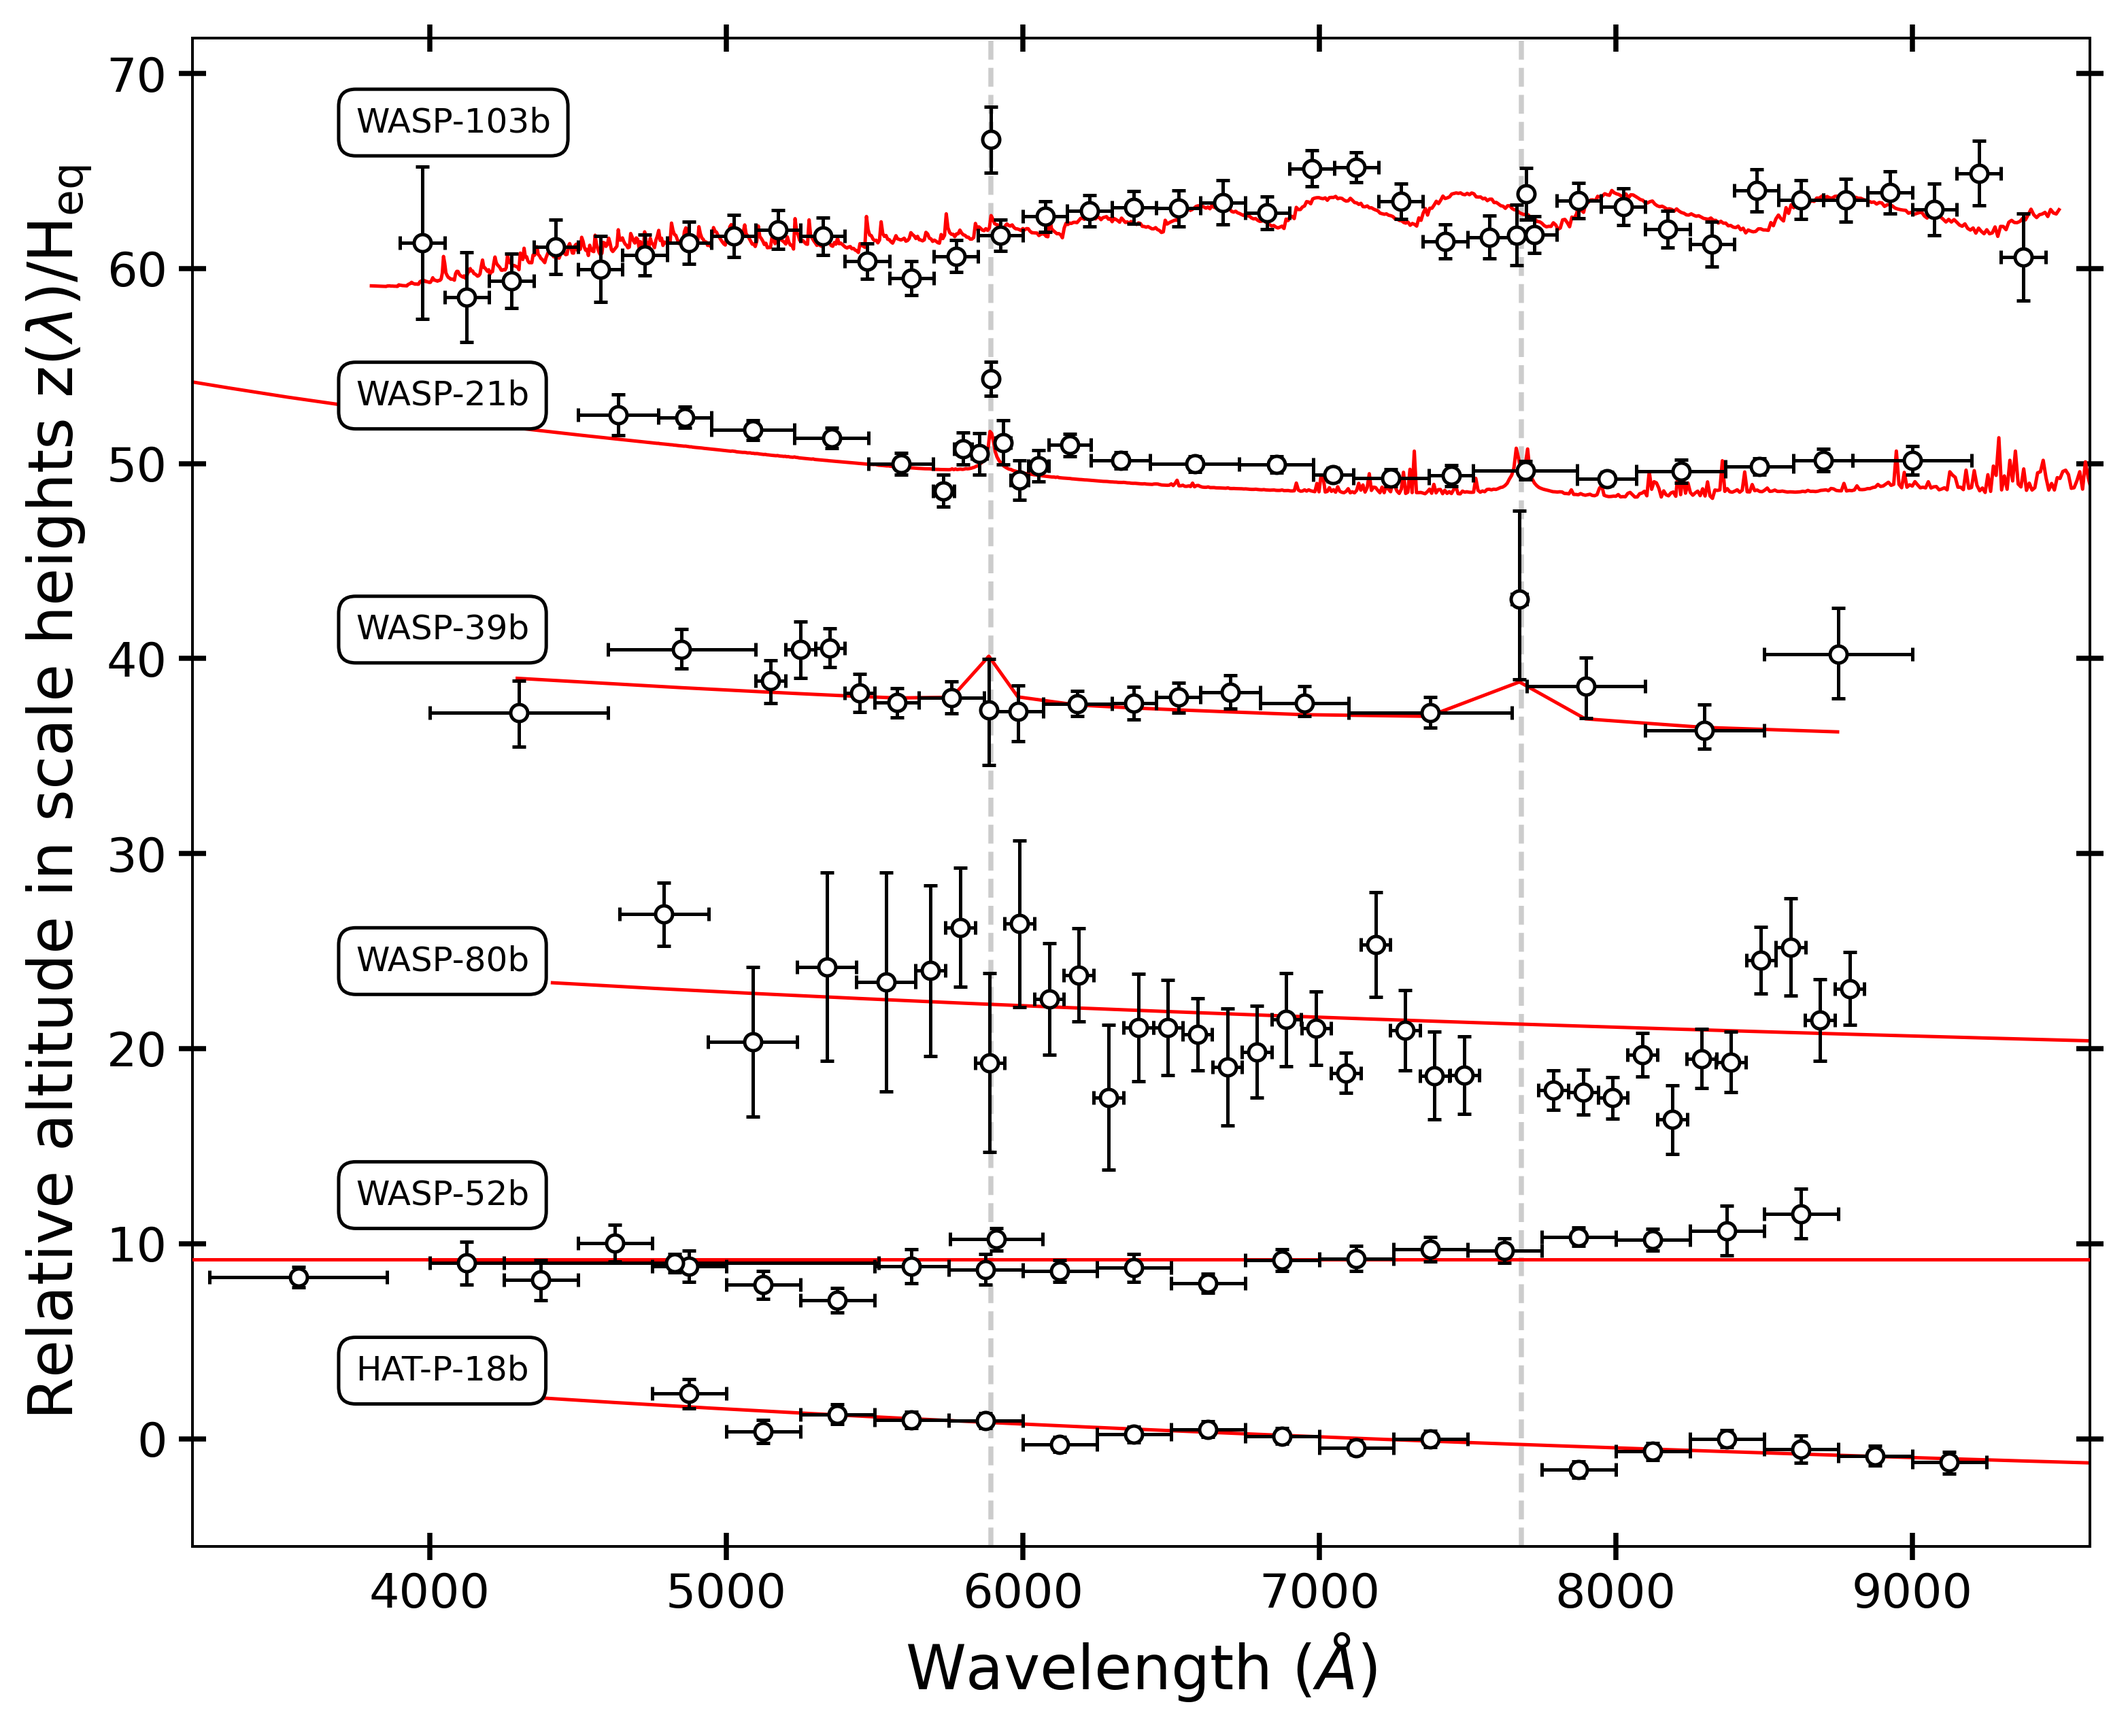
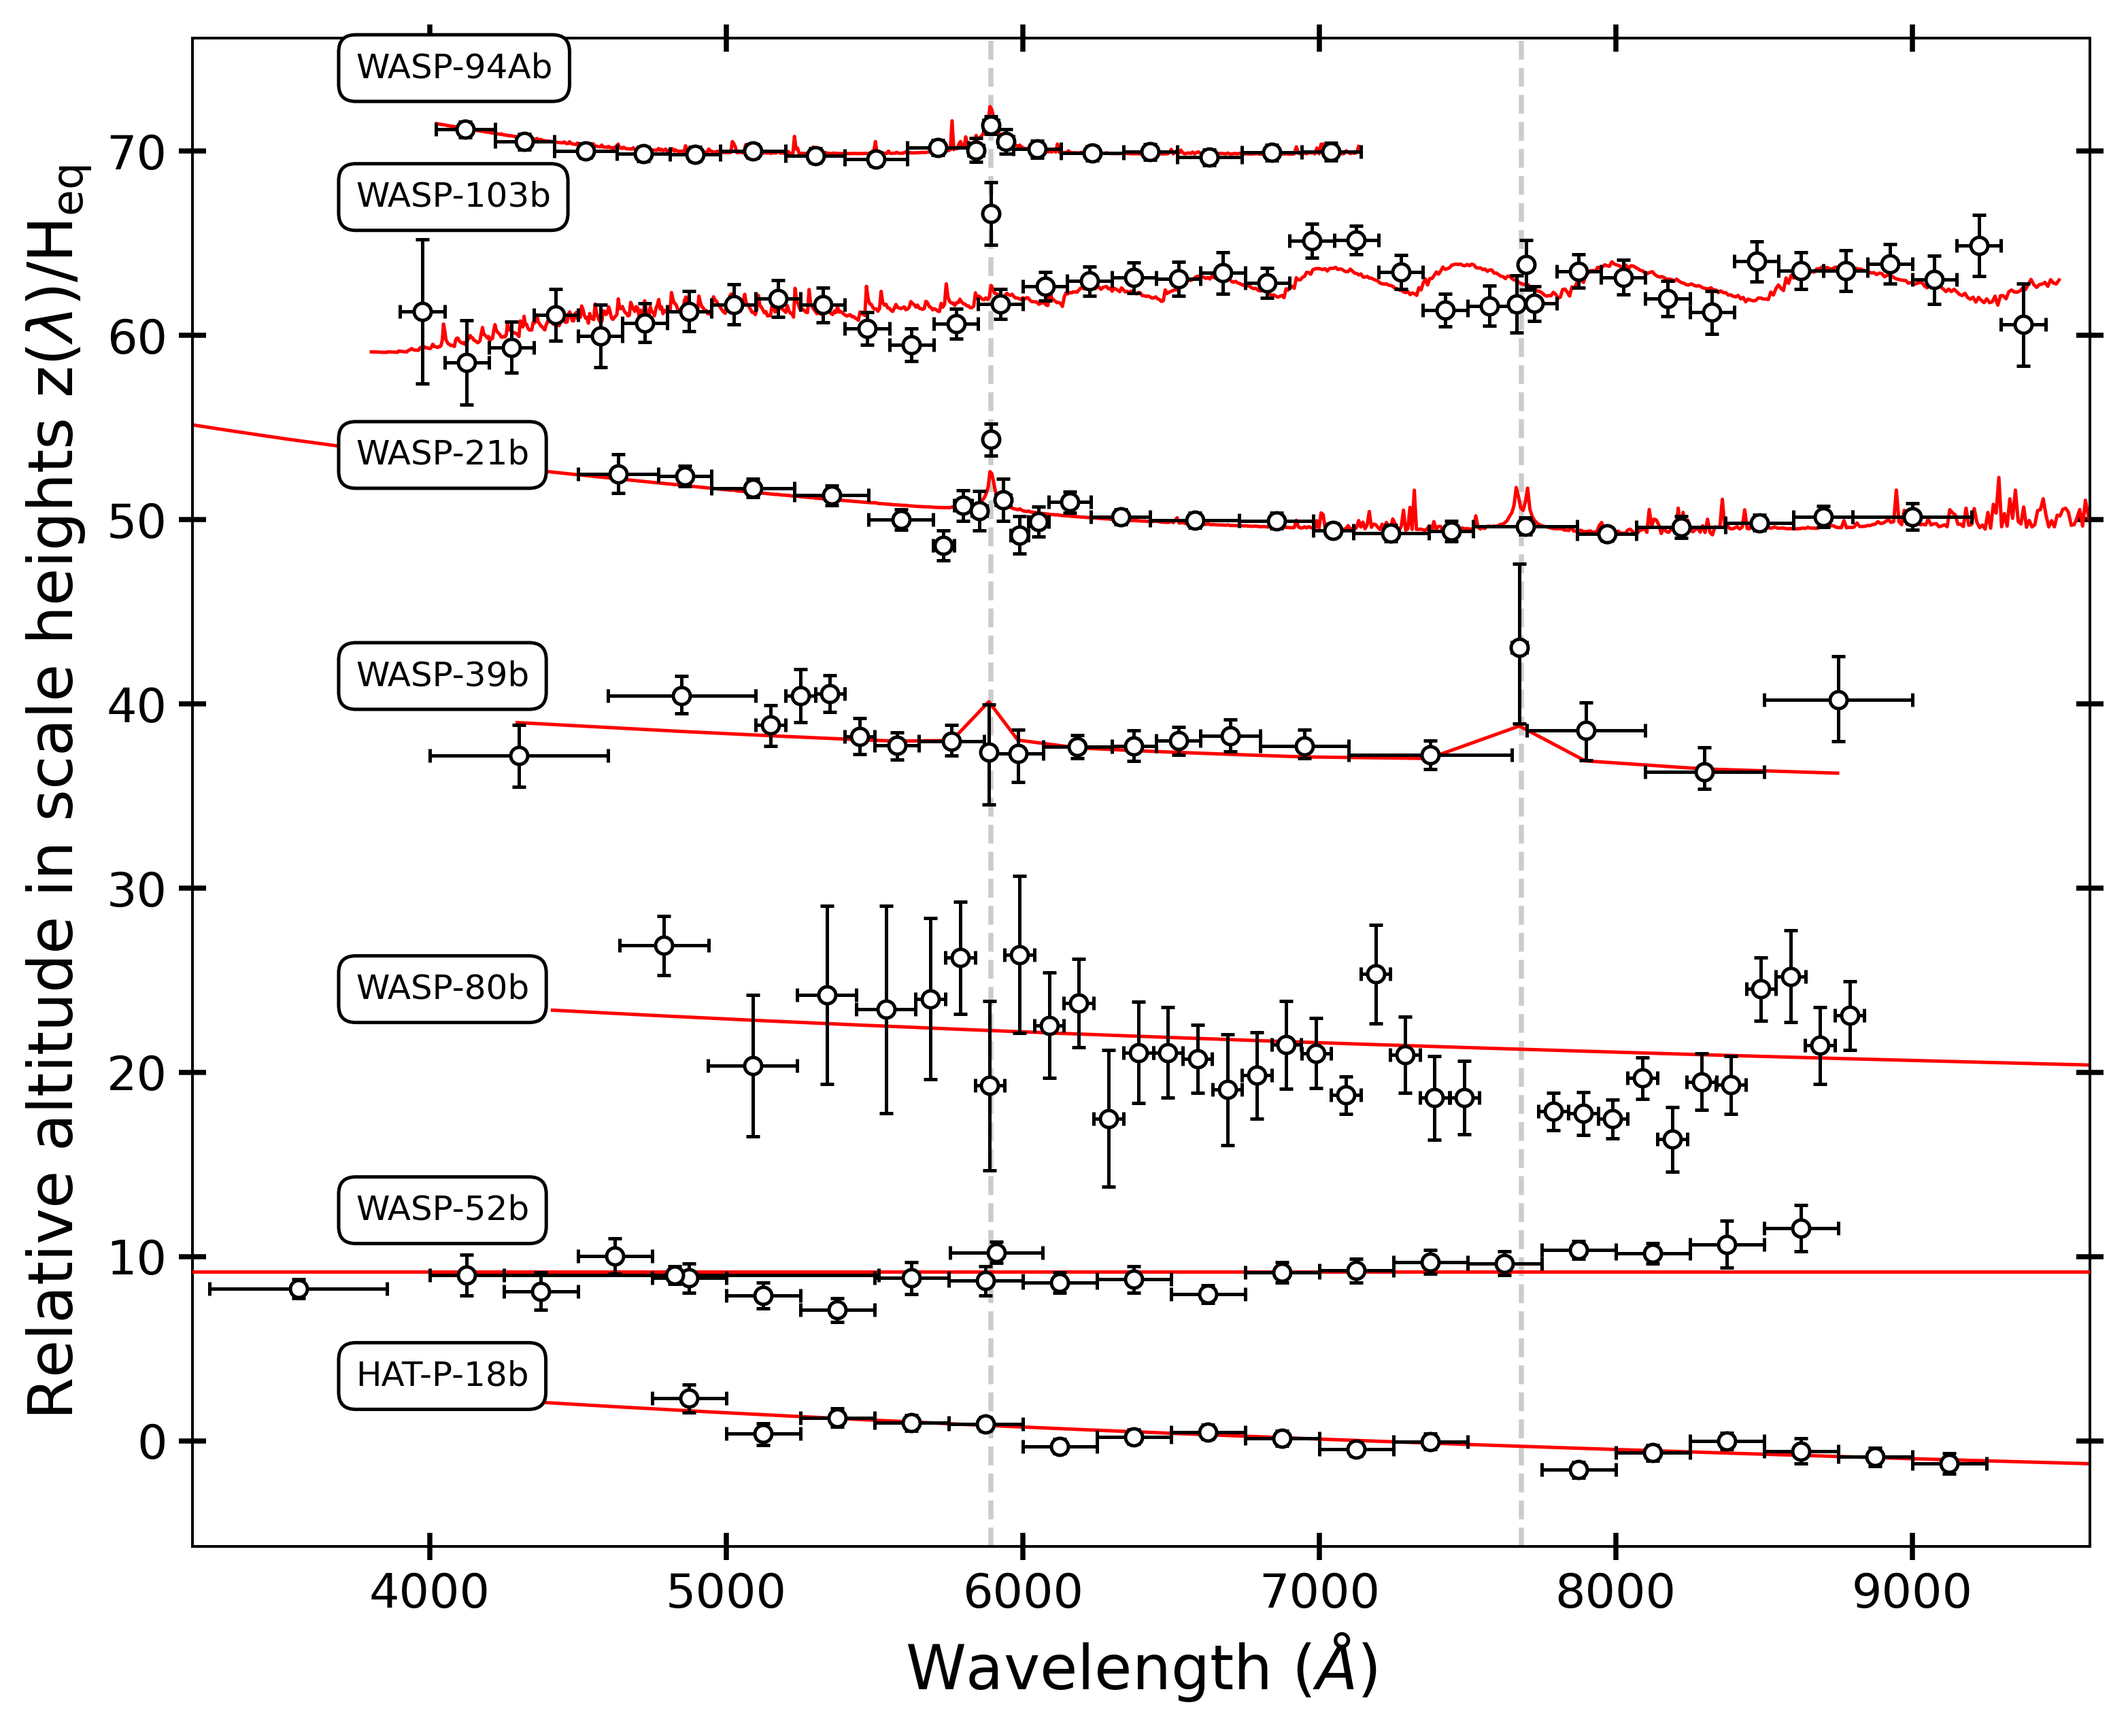
added Evie's W94 result

diff --git a/LRG-BEASTS.md b/LRG-BEASTS.md
@@ -15,7 +15,7 @@ Ground-based studies are often limited by systematics and not photon noise, and 
 
 <center><img src="assets/images/complete_sample.png" style="width:1100px;height:800px;"></center>
 
-The figure above shows the LRG-BEASTS sample. These 21 planets cover a wide range of parameter space from ~0.1 to 1.5 Jupiter masses and ~700 to 2500K. This broad parameter space is allowing us to analyse how a planet's atmospheric properties vary as functions of these parameters. The planets in green are those that have been published.
+The figure above shows the LRG-BEASTS sample. These 26 planets cover a wide range of parameter space from ~0.1 to 3.2 Jupiter masses and ~730 to 2500K. This broad parameter space is allowing us to analyse how a planet's atmospheric properties vary as functions of these parameters. The planets in green are those that have been published.
 
 In *temperature* space, we are probing the transition between CH<sub>4</sub> and CO at ~1000K. Below 1000K, the photolysis of CH<sub>4</sub> produces hydrocarbon hazes in exoplanet atmospheres (e.g., [Morley et al., 2015](https://ui.adsabs.harvard.edu/#abs/2015ApJ...815..110M/abstract)), that can mute molecular absorption and lead to strong optical scattering slopes. Indeed, we have seen evidence for hydrocarbon hazes in the atmospheres of HAT-P-18b and WASP-80b (see *THE RESULTS*).
 
@@ -31,9 +31,13 @@ In *mass* space, we are using our precise optical spectra to place tighter const
 
 The figure above shows the published results to date and demonstrates our ability to obtain a precision of around 1 atmospheric scale height with a 4-metre telescope. For all planets, the best fitting atmospheric forward model is plotted in red. The results are described in more detail below.
 
+**- WASP-94Ab** ([Ahrer et al., 2022](https://arxiv.org/pdf/2201.02212.pdf))
+
+In the most recent LRG-BEASTS study, Warwick graduate student Eva-Maria Ahrer led an analysis of the inflated hot Jupiter WASP-94Ab. In this study, Eva-Maria published the first transmission spectrum to use the EFOSC2 instrument on the 3.6m NTT telescope in La Silla, obtaining an exquisite precision of 128 ppm in 200A-wide bins from a single transit. Our precise transmission spectrum revealed significant evidence for sodium in the planet's atmosphere at 4.9 sigma confidence, in addition to a steeper-than-Rayleigh scattering slope. Our detection of pressure-broadened sodium suggests aerosols must be confined to relatively low altitudes. We also present archival HARPS data which reveals absorption in the stellar CaII H&K line cores, suggesting that WASP-94Ab may be losing its atmosphere, leading to cloud of gas that is enshrouding the host star. 
+
 **- WASP-103b** ([Kirk et al., 2021](https://arxiv.org/pdf/2105.00012.pdf))
 
-Our latest result was a study I led on the ultrahot Jupiter WASP-103b. In this study, we combined 11 ground-based transits (2 from LRG-BEASTS, 5 from the ACCESS survey on Magellan, 3 from Gemini/GMOS, and 1 from VLT/FORS2). This combination of data led to one of the most precise ground-based transmission spectra to date with a median uncertainty in the transit depth of just 148 ppm in 150A-wide wavelength bins, which was less than the one atmospheric scale height amplitude of 152 ppm.
+In this study, we combined 11 ground-based transits (2 from LRG-BEASTS, 5 from the ACCESS survey on Magellan, 3 from Gemini/GMOS, and 1 from VLT/FORS2) for the ultrahot Jupiter WASP-103b. This combination of data led to one of the most precise ground-based transmission spectra to date with a median uncertainty in the transit depth of just 148 ppm in 150A-wide wavelength bins, which was less than the one atmospheric scale height amplitude of 152 ppm.
 
 In our retrieval analysis of WASP-103b’s combined optical and HST infrared transmission spectrum, we found strong evidence for unocculted bright regions (4.3 sigma) and weak evidence for H2O (1.9 sigma, likely due to dissociation), HCN (1.7 sigma), and TiO (2.1 sigma), which could be responsible for WASP-103b’s observed temperature inversion ([Kreidberg et al., 2018](https://ui.adsabs.harvard.edu/abs/2018AJ....156...17K/abstract)). Our optical transmission spectrum showed significant structure that was in excellent agreement with the extensively studied ultrahot Jupiter WASP-121b ([Evans et al., 2018](https://ui.adsabs.harvard.edu/abs/2018AJ....156..283E/abstract)), for which the presence of VO was inferred. For WASP-103b, we found that VO could only provide a reasonable fit to the data if its abundance was implausibly high and we did not account for stellar activity. Our results highlighted the precision that can be achieved by ground-based observations and the impacts that stellar activity from F-type stars can have on the interpretation of exoplanet transmission spectra.
 
